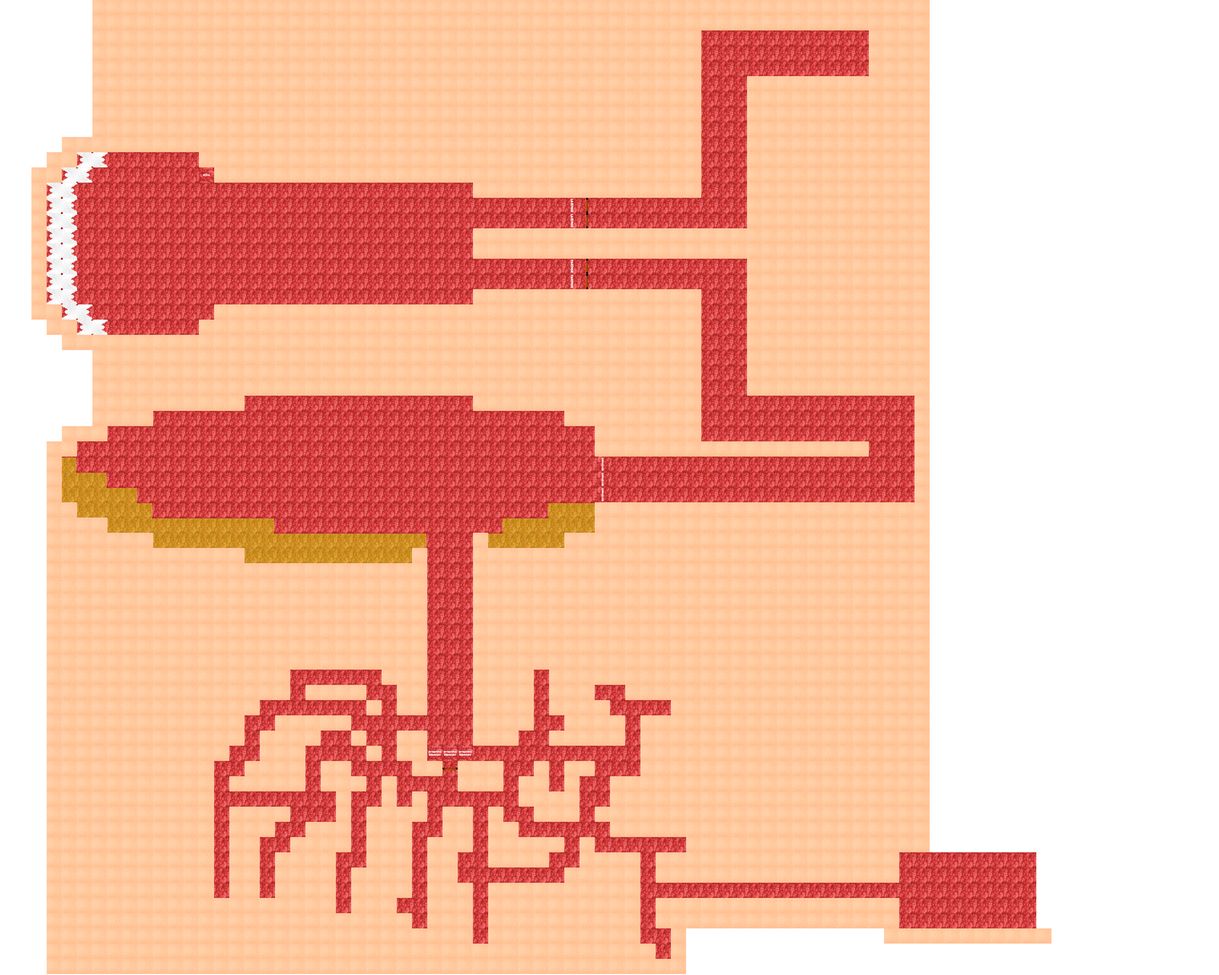
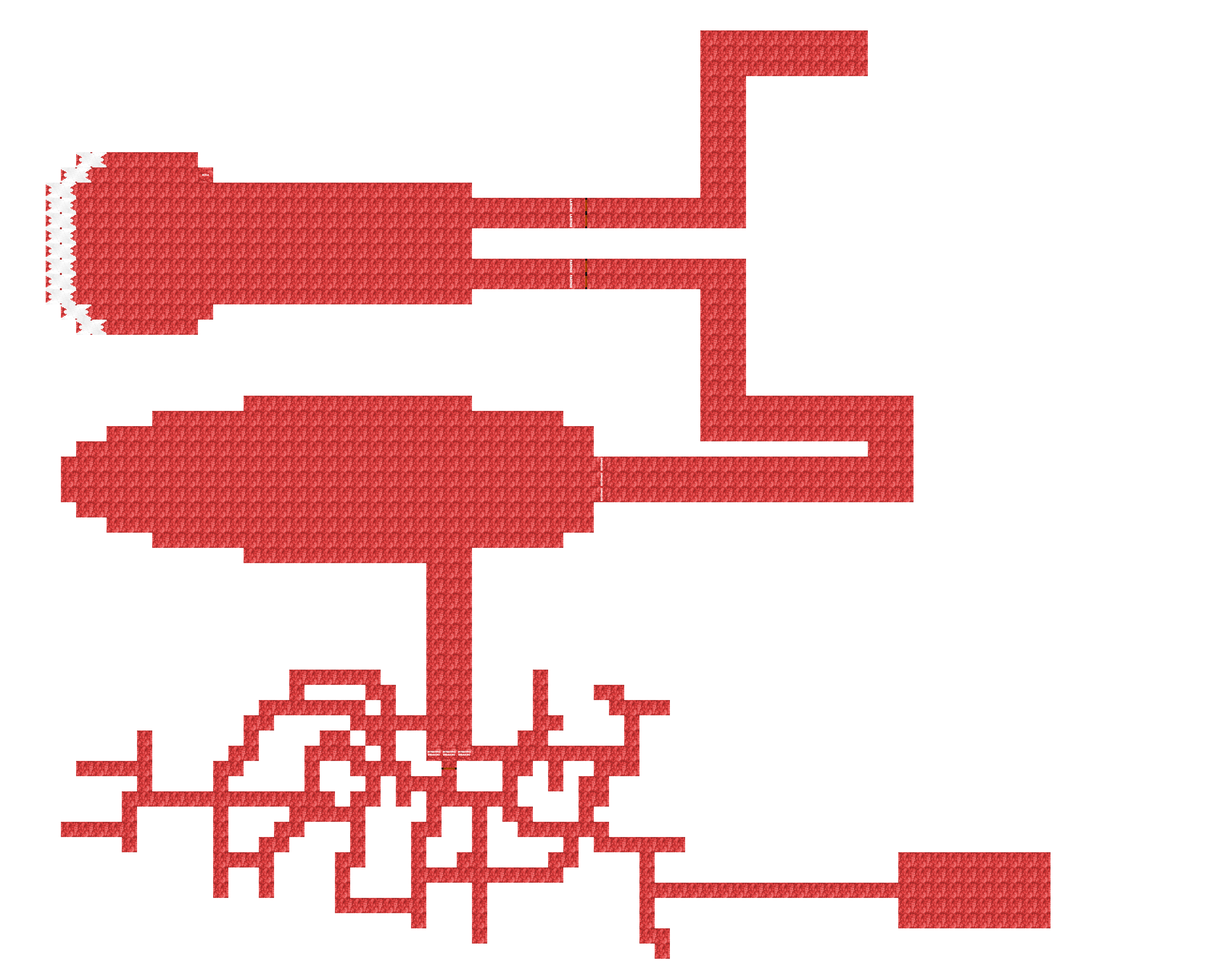
feat: add colision

diff --git a/frontend/level.py b/frontend/level.py
@@ -1,8 +1,8 @@
 import pygame
-from settings import WORLD_MAP, TILESIZE
+from settings import TILESIZE
 from tile import Tile
 from player import Player
-
+from utils.import_csv_layout import import_csv_layout
 class Level:
     def __init__(self):
         self.display_surface = pygame.display.get_surface()
@@ -13,14 +13,23 @@ class Level:
 
 # gerar o mapa
     def create_map(self):
-        for row_index, row in enumerate(WORLD_MAP):
-            for col_index, col in enumerate(row):
-                x = col_index * TILESIZE
-                y = row_index * TILESIZE
-                if col == 'x':
-                    Tile((x,y), [self.visible_sprites,self.obstacles_sprites])
-                elif col == 'p':
-                    self.player = Player((x, y), [self.visible_sprites], self.obstacles_sprites)
+        layouts = {
+            'boundary': import_csv_layout('assets/csv/map_blocos.csv'),
+            'teeth': import_csv_layout('assets/csv/map_dentes.csv')
+        }
+
+        for style,layout in layouts.items():
+            for row_index,row in enumerate(layout):
+                for col_index, col in enumerate(row):
+                    if col != '-1':
+                        x = col_index * TILESIZE
+                        y = row_index * TILESIZE
+                        if style == 'boundary':
+                            Tile((x,y), [self.visible_sprites,self.obstacles_sprites], 'visible', pygame.image.load('assets/textures/skin.png'))
+                        if style == 'teeth':
+                            Tile((x,y), [self.obstacles_sprites], 'invisible', pygame.image.load('assets/textures/tooth.pngp))
+
+        self.player = Player((900,900), [self.visible_sprites], self.obstacles_sprites)
 
 #movimentação do player
     def run(self):
@@ -46,6 +55,6 @@ class Camera(pygame.sprite.Group):
         floor_offset_pos = self.floor_rect.topleft - self.offset
         self.display_surface.blit(self.floor_surface, floor_offset_pos)
 
-        for sprite in self.sprites():
+        for sprite in sorted(self.sprites(), key=lambda sprite: sprite.rect.centery):
             offset_pos = sprite.rect.topleft - self.offset
             self.display_surface.blit(sprite.image,offset_pos)

diff --git a/frontend/settings.py b/frontend/settings.py
@@ -14,25 +14,3 @@ SCREEN_SIZE = [WIDTH, HEIGHT]
 FPS = 60
 TILESIZE = 64
 
-WORLD_MAP = [
-[' ',' ',' ',' ',' ',' ',' ',' ',' ',' ',' ',' ',' ',' ',' ',' ',' ',' ',' ',' '],
-[' ',' ',' ',' ',' ',' ',' ',' ',' ',' ',' ',' ',' ',' ',' ',' ',' ',' ',' ',' '],
-[' ',' ',' ',' ',' ',' ',' ',' ',' ',' ',' ',' ',' ',' ',' ',' ',' ',' ',' ',' '],
-[' ',' ',' ',' ',' ',' ',' ',' ',' ',' ',' ',' ',' ',' ',' ',' ',' ',' ',' ',' '],
-[' ',' ',' ',' ',' ',' ',' ',' ',' ',' ',' ',' ',' ',' ',' ',' ',' ',' ',' ',' '],
-[' ',' ',' ',' ',' ',' ',' ',' ',' ',' ',' ',' ',' ',' ',' ',' ',' ',' ',' ',' '],
-[' ',' ',' ',' ',' ',' ',' ',' ',' ',' ',' ',' ',' ',' ',' ',' ',' ',' ',' ',' '],
-[' ',' ',' ',' ',' ',' ',' ',' ',' ',' ',' ',' ',' ',' ',' ',' ',' ',' ',' ',' '],
-[' ',' ',' ',' ',' ',' ',' ',' ',' ',' ',' ',' ',' ',' ',' ',' ',' ',' ',' ',' '],
-[' ',' ',' ',' ',' ',' ',' ',' ',' ',' ',' ',' ',' ',' ',' ',' ',' ',' ',' ',' '],
-[' ',' ',' ',' ',' ',' ',' ',' ',' ',' ',' ',' ',' ',' ',' ',' ',' ',' ',' ',' '],
-[' ',' ',' ',' ',' ',' ',' ',' ',' ',' ',' ',' ',' ',' ',' ',' ',' ',' ',' ',' '],
-[' ',' ',' ',' ',' ',' ',' ',' ',' ',' ',' ',' ',' ',' ',' ',' ',' ',' ',' ','p'],
-[' ',' ',' ',' ',' ',' ',' ',' ',' ',' ',' ',' ',' ',' ',' ',' ',' ',' ',' ',' '],
-[' ',' ',' ',' ',' ',' ',' ',' ',' ',' ',' ',' ',' ',' ',' ',' ',' ',' ',' ',' '],
-[' ',' ',' ',' ',' ',' ',' ',' ',' ',' ',' ',' ',' ',' ',' ',' ',' ',' ',' ',' '],
-[' ',' ',' ',' ',' ',' ',' ',' ',' ',' ',' ',' ',' ',' ',' ',' ',' ',' ',' ',' '],
-[' ',' ',' ',' ',' ',' ',' ',' ',' ',' ',' ',' ',' ',' ',' ',' ',' ',' ',' ',' '],
-[' ',' ',' ',' ',' ',' ',' ',' ',' ',' ',' ',' ',' ',' ',' ',' ',' ',' ',' ',' '],
-[' ',' ',' ',' ',' ',' ',' ',' ',' ',' ',' ',' ',' ',' ',' ',' ',' ',' ',' ',' '],
-]

diff --git a/frontend/tile.py b/frontend/tile.py
@@ -2,9 +2,10 @@ import pygame
 from settings import *
 
 class Tile(pygame.sprite.Sprite):
-    def __init__(self,pos,groups):
+    def __init__(self,pos,groups, sprite_type, surface = pygame.Surface((TILESIZE,TILESIZE))):
         super().__init__(groups)
-        self.image = pygame.image.load('./assets/wall.png').convert_alpha()
+        self.sprite_type = sprite_type
+        self.image = surface
         self.rect = self.image.get_rect(topleft = pos)
         #hitbox flúida para o bloco da classe em questão (leva em consideração a existência do rect)
         self.hitbox = self.rect.inflate(-10,-10)

diff --git a/frontend/player.py b/frontend/player.py
@@ -19,7 +19,7 @@ class Player(pygame.sprite.Sprite):
 
     #função para facilitar a mudança da imagem ao mudar a direção do sprite
     def directionChange(self, sprite_img):
-        self.image = pygame.image.load(f'./assets/{sprite_img}.png').convert_alpha()
+        self.image = pygame.image.load(f'./assets/player/{sprite_img}.png').convert_alpha()
 
     def input(self):
         #detecta caso uma tecla seja pressionada

diff --git a/frontend/utils/import_csv_layout.py b/frontend/utils/import_csv_layout.py
@@ -1,0 +1,8 @@
+from csv import reader
+def import_csv_layout(path):
+    terrain = []
+    with open(path) as level_map:
+        layout = reader(level_map, delimiter= ',')
+        for row in layout:
+            terrain.append(list(row))
+        return terrain
